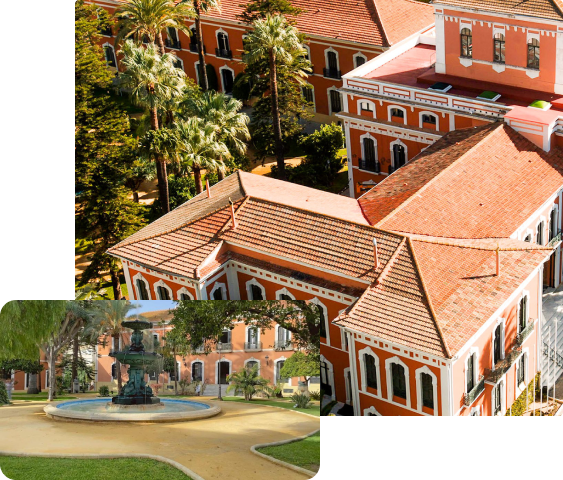
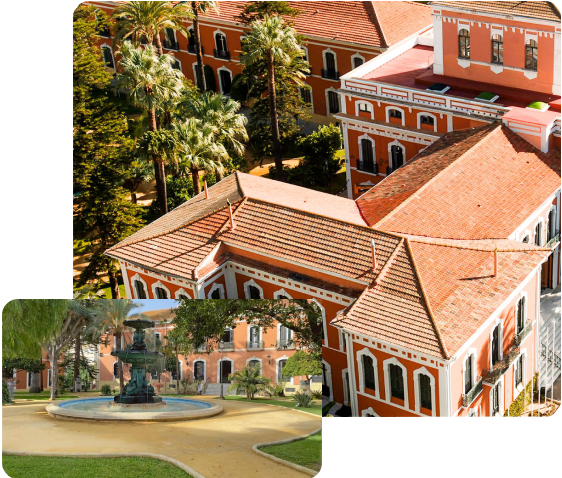
fix foto sede para cantos mas redondeados

diff --git a/inicio_798772332_130763.html b/inicio_798772332_130763.html
@@ -192,12 +192,18 @@
     <section class="">
         <div class="row m-5">
             <div class="col-md-12 seccion-verde text-center">
+                <!--
                 <video width="100%" controls loop poster="images/video.png" class="object-fit-contain border rounded">
-                    <!-- Aquí irán las fuentes de video y el texto alternativo -->
-                    <!--<source src=" videos/congresohidrogenohuelva.mp4" type="video/mp4">-->
-                    <!--<source src="videos/congresohidrogenohuelva.webm" type="video/webm" />-->
-                    <p>Tu navegador no admite la etiqueta de video.</p>
-                </video>
+                     Aquí irán las fuentes de video y el texto alternativo -->
+                <!--<source src=" videos/congresohidrogenohuelva.mp4" type="video/mp4">-->
+                <!--<source src="videos/congresohidrogenohuelva.webm" type="video/webm" />-->
+                <!-- <p>Tu navegador no admite la etiqueta de video.</p> -->
+                <!-- </video> -->
+                <div style="padding:56.25% 0 0 0;position:relative;"><iframe
+                        src="https://player.vimeo.com/video/895740812?h=b281cfc0cd&color=ffffff&byline=0"
+                        style="position:absolute;top:0;left:0;width:100%;height:100%;" frameborder="0"
+                        allow="autoplay; fullscreen; picture-in-picture" allowfullscreen></iframe></div>
+                <script src="https://player.vimeo.com/api/player.js"></script>
             </div>
         </div>
     </section>
@@ -226,7 +232,7 @@
                     </div>
                 </div>
                 <div class="col-md-6 text-center">
-                    <img alt="Sede" class="img-fluid" src="images/imgs-sede.png" />
+                    <img alt="Sede" class="img-fluid redondeo" src="images/imgs-sede.png" />
                 </div>
             </div>
         </div>

diff --git a/webfinal/es/inicio_798772332_130763.html b/webfinal/es/inicio_798772332_130763.html
@@ -194,14 +194,11 @@
     <section class="">
         <div class="row m-5">
             <div class="col-md-12 seccion-verde text-center">
-                <video width="100%" controls loop
-                    poster="https://garciaantonio20k.github.io/congresohidrogenoverde/images/video.png"
-                    class="object-fit-contain border rounded">
-                    <!-- Aquí irán las fuentes de video y el texto alternativo -->
-                    <!--<source src=" videos/congresohidrogenohuelva.mp4" type="video/mp4">-->
-                    <!--<source src="videos/congresohidrogenohuelva.webm" type="video/webm" />-->
-                    <p>Tu navegador no admite la etiqueta de video.</p>
-                </video>
+                <div style="padding:56.25% 0 0 0;position:relative;"><iframe
+                        src="https://player.vimeo.com/video/895740812?h=b281cfc0cd&color=ffffff&byline=0"
+                        style="position:absolute;top:0;left:0;width:100%;height:100%;" frameborder="0"
+                        allow="autoplay; fullscreen; picture-in-picture" allowfullscreen></iframe></div>
+                <script src="https://player.vimeo.com/api/player.js"></script>
             </div>
         </div>
     </section>

diff --git a/css/styles.css b/css/styles.css
@@ -76,6 +76,7 @@ Newsletter
         width: 90%;
     }
 
+
     .container-newsletter .input-text {
         border: 0;
         color: black;
@@ -281,3 +282,8 @@ Newsletter
         background-color: rgba(255, 255, 255, 0.5);
 
     }
+
+    .redondeo {
+        border-radius: 16px;
+    }
+}
